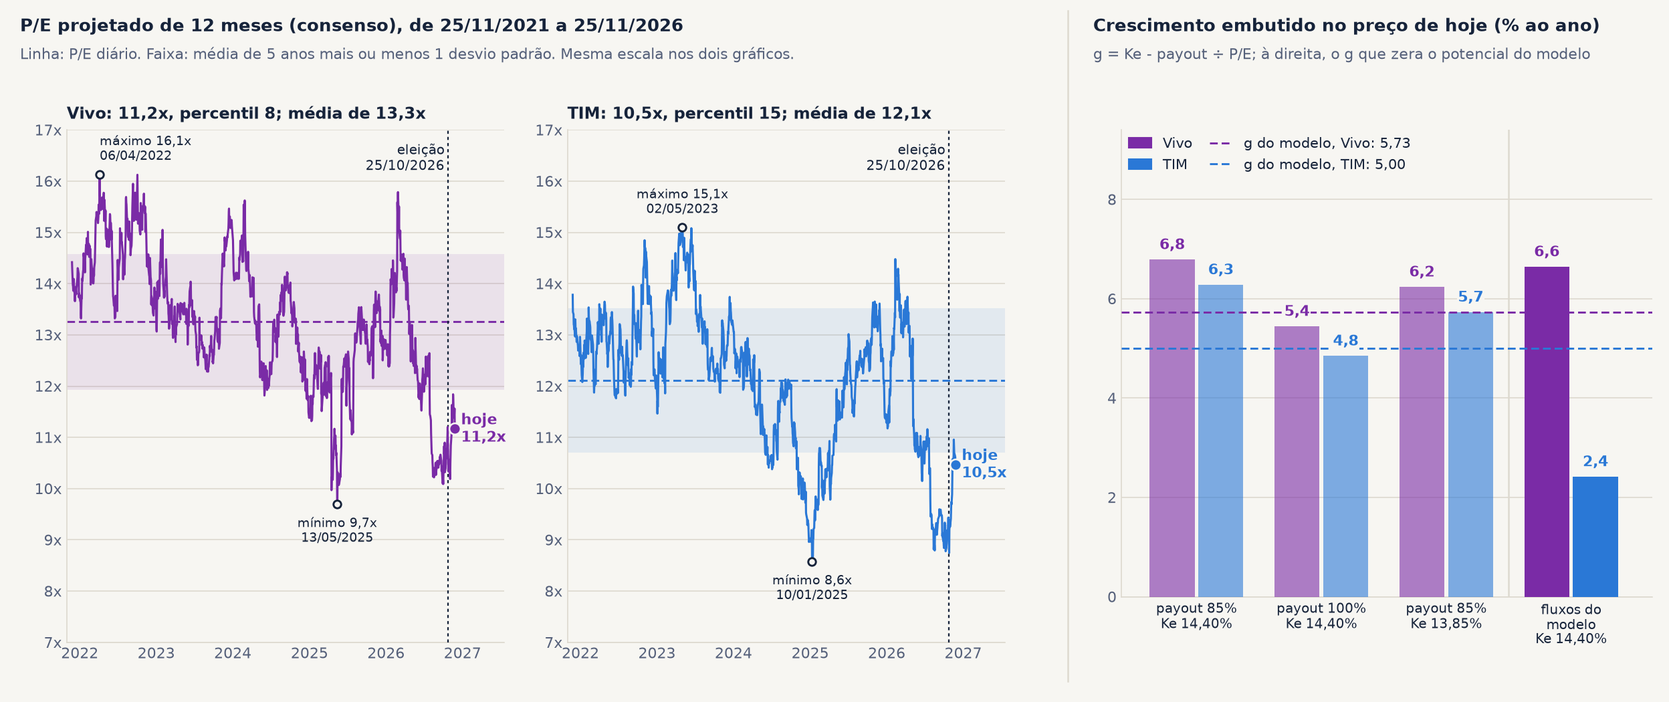
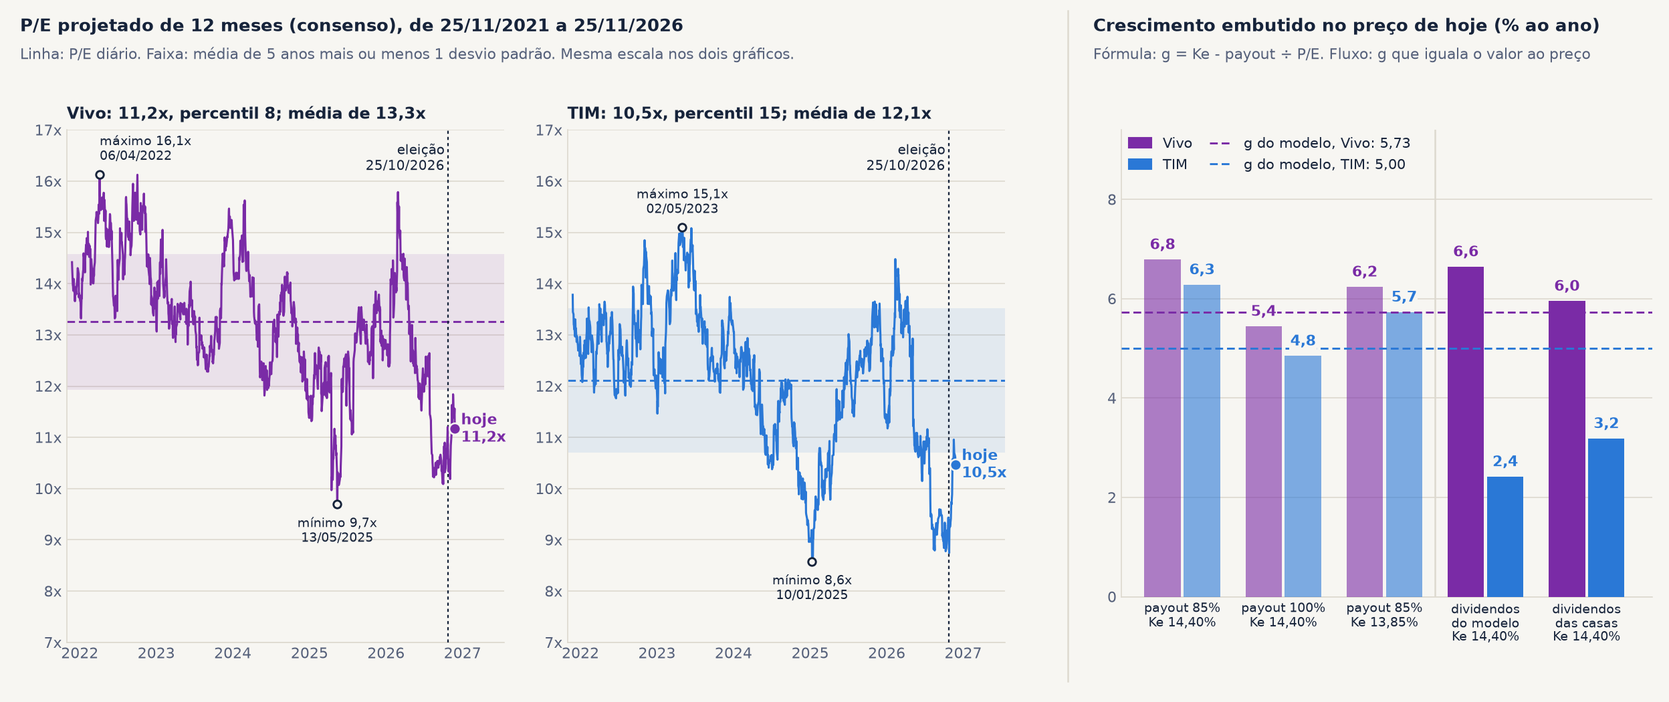
v7.10 · 25/11/2026 15:01 · correções da revisão do JPM e do slide de P/E
Distribuição do JPM por competência; Fistel do JPM sem dupla contagem no
slide 20; slide 27 com o caso dos dividendos das casas e a leitura corrigida;
acertos de nota nos slides 10, 13, 17 e 19.

Changed region(s): [[0.6875, 0.3352, 1.0, 0.9143], [0.6562, 0.061, 0.9688, 0.0914]]

diff --git a/index.html b/index.html
@@ -40,7 +40,7 @@ h1, h2, h3 { font-family:'Space Grotesk', Arial, sans-serif; }
 <div id="palco">
 <section id="capa" class="capa" data-transition="fade">
 <div>
-<p class="chip">v7.9 · 25/11/2026 14:54</p>
+<p class="chip">v7.10 · 25/11/2026 15:01</p>
 </div>
 <div>
 <h1>Telecom Brasil: Vivo e TIM</h1>
@@ -109,7 +109,7 @@ h1, h2, h3 { font-family:'Space Grotesk', Arial, sans-serif; }
 <h2 class="titulo">Capex: pico de 20,7% da receita na Vivo (2014) e 28,8% na TIM (2016), hoje 15,6% e 17,1%; em reais, quase parado desde 2015; o modelo vai a 14,0% e 14,5%</h2>
 <img class="graf" src="img/v7_capex.png" alt="Quatro gráficos de 2011 a 2030 estimado. Em cima, na mesma escala, o capex sem licenças sobre a receita líquida de Vivo e TIM, com a estimativa do modelo, a média das casas e a faixa das casas. Embaixo, na mesma escala, o capex sem licenças em bilhões de reais nominais por ano, em barras, com a estimativa do modelo e a média das casas">
 <p class="fonte">Fonte: planilhas de RI, releases e modelos de 25/11/2026. Capex sem licenças; Vivo com a GVT de 2014 em diante (pro forma). Casas: Itaú BBA, BBI, BTG, Santander, JPM e, na Vivo, UBS. UBS só até 2028E.</p>
-<aside>Capex sem licenças sobre a receita. Vivo: 14,9% em 2011 e 2012, 16,2% em 2013, pico de 20,7% em 2014 (ano em que a GVT entra na base, pro forma), 19,7% em 2015, 18,8% em 2016, 18,5% em 2017, 18,9% em 2018, 20,0% em 2019, 18,1% em 2020, 19,7% em 2021, 19,8% em 2022, 17,2% em 2023, 16,4% em 2024 e 15,6% em 2025. TIM: 17,3% em 2011, 18,0% em 2012, 19,4% em 2013, 20,1% em 2014, 27,8% em 2015, pico de 28,8% em 2016, 25,6% em 2017, 23,3% em 2018, 22,2% em 2019, 22,5% em 2020, 24,3% em 2021, 21,9% em 2022, 18,9% em 2023, 17,9% em 2024 e 17,1% em 2025. Dois ciclos: a rede 4G em 2014-2016 (na TIM com a receita caindo de R$ 20,0 bilhões em 2013 para R$ 15,6 bilhões em 2016) e o 5G com fibra em 2019-2022. Em reais nominais: Vivo de R$ 4,9 bilhões em 2011 para R$ 8,3 bilhões em 2014 e 2015, R$ 8,8 bilhões em 2019, R$ 9,5 bilhões em 2022 e R$ 9,3 bilhões em 2025; TIM de R$ 3,0 bilhões em 2011 para R$ 4,8 bilhões em 2015, R$ 3,9 bilhões em 2019, R$ 4,7 bilhões em 2022 e R$ 4,5 bilhões em 2025. Em dez anos (2015 a 2025) o capex nominal sobe 11% na Vivo e cai 5% na TIM, com a receita subindo 41% e 55%: a queda da razão desde 2022 é receita, não corte. Em reais de 2025 o capex cai de R$ 14,1 bilhões para R$ 9,3 bilhões na Vivo e de R$ 8,1 bilhões para R$ 4,5 bilhões na TIM entre 2015 e 2025. Estimativas. Vivo: o modelo põe 14,9% em 2026E e 14,0% de 2027E a 2030E (premissa baixada de 14,5% para 14,0% em 24/11/2026), com o capex parado em R$ 9,5 bilhões em 2026E e 2027E e subindo com a receita até R$ 11,2 bilhões em 2030E; casas em 15,1%, 14,6%, 14,3%, 14,1% e 14,1% (faixa de 13,1% a 15,0% em 2030E, com o JPM no teto nos cinco anos), com R$ 10,9 bilhões em 2030E; o modelo fica 0,6 p.p. abaixo da média em 2027E, 0,3 abaixo em 2028E e 0,1 abaixo em 2030E, e ainda assim com R$ 0,3 bilhão a mais de capex que a média das casas em 2030E, porque a receita do modelo é maior. TIM: o modelo põe 16,3%, 15,3% e 14,5% de 2028E a 2030E, com o capex em R$ 4,5 bilhões em 2027E e 2028E e R$ 4,9 bilhões em 2030E; casas em 16,2%, 15,6%, 15,4%, 15,2% e 15,6% (faixa de 15,0% a 16,7% em 2030E), com R$ 5,1 bilhões em 2030E; o modelo fica 1,1 p.p. abaixo da média em 2030E e abaixo da casa mais baixa de 2028E em diante. Os 14,0% da Vivo e os 14,5% da TIM no modelo são o menor nível de cada série desde 2011 (a Vivo teve 14,9% em 2011 e 2012, antes da GVT). Fontes do realizado: Vivo pelo modelo até 2018 e pelo capex sem licenças da planilha de RI de 2019 em diante; TIM pelo modelo, com o capex orgânico de 2012 e 2014 dos releases e 2021 pelo capex sem licenças da companhia (R$ 4,38 bilhões). A emissão de arrendamento está no slide seguinte.</aside>
+<aside>Capex sem licenças sobre a receita. Vivo: 14,9% em 2011 e 2012, 16,2% em 2013, pico de 20,7% em 2014 (ano em que a GVT entra na base, pro forma), 19,7% em 2015, 18,8% em 2016, 18,5% em 2017, 18,9% em 2018, 20,0% em 2019, 18,1% em 2020, 19,7% em 2021, 19,8% em 2022, 17,2% em 2023, 16,4% em 2024 e 15,6% em 2025. TIM: 17,3% em 2011, 18,0% em 2012, 19,4% em 2013, 20,1% em 2014, 27,8% em 2015, pico de 28,8% em 2016, 25,6% em 2017, 23,3% em 2018, 22,2% em 2019, 22,5% em 2020, 24,3% em 2021, 21,9% em 2022, 18,9% em 2023, 17,9% em 2024 e 17,1% em 2025. Dois ciclos: a rede 4G em 2014-2016 (na TIM com a receita caindo de R$ 20,0 bilhões em 2013 para R$ 15,6 bilhões em 2016) e o 5G com fibra em 2019-2022. Em reais nominais: Vivo de R$ 4,9 bilhões em 2011 para R$ 8,3 bilhões em 2014 e 2015, R$ 8,8 bilhões em 2019, R$ 9,5 bilhões em 2022 e R$ 9,3 bilhões em 2025; TIM de R$ 3,0 bilhões em 2011 para R$ 4,8 bilhões em 2015, R$ 3,9 bilhões em 2019, R$ 4,7 bilhões em 2022 e R$ 4,5 bilhões em 2025. Em dez anos (2015 a 2025) o capex nominal sobe 11% na Vivo e cai 5% na TIM, com a receita subindo 41% e 55%: a queda da razão desde 2022 é receita, não corte. Em reais de 2025 o capex cai de R$ 14,1 bilhões para R$ 9,3 bilhões na Vivo e de R$ 8,1 bilhões para R$ 4,5 bilhões na TIM entre 2015 e 2025. Estimativas. Vivo: o modelo põe 14,9% em 2026E e 14,0% de 2027E a 2030E (premissa baixada de 14,5% para 14,0% em 24/11/2026), com o capex parado em R$ 9,5 bilhões em 2026E e 2027E e subindo com a receita até R$ 11,2 bilhões em 2030E; casas em 15,1%, 14,6%, 14,3%, 14,1% e 14,1% (faixa de 13,1% a 15,0% em 2030E, com o JPM no teto nos cinco anos), com R$ 10,9 bilhões em 2030E; o modelo fica 0,6 p.p. abaixo da média em 2027E, 0,3 abaixo em 2028E e 0,1 abaixo em 2030E, e ainda assim com R$ 0,3 bilhão a mais de capex que a média das casas em 2030E, porque a receita do modelo é maior. TIM: o modelo põe 16,3%, 15,3% e 14,5% de 2028E a 2030E, com o capex em R$ 4,5 bilhões em 2027E e 2028E e R$ 4,9 bilhões em 2030E; casas em 16,2%, 15,6%, 15,4%, 15,2% e 15,6% (faixa de 15,0% a 16,7% em 2030E), com R$ 5,1 bilhões em 2030E; o modelo fica 1,1 p.p. abaixo da média em 2030E e abaixo da casa mais baixa de 2027E em diante. Os 14,0% da Vivo e os 14,5% da TIM no modelo são o menor nível de cada série desde 2011 (a Vivo teve 14,9% em 2011 e 2012, antes da GVT). Fontes do realizado: Vivo pelo modelo até 2018 e pelo capex sem licenças da planilha de RI de 2019 em diante; TIM pelo modelo, com o capex orgânico de 2012 e 2014 dos releases e 2021 pelo capex sem licenças da companhia (R$ 4,38 bilhões). A emissão de arrendamento está no slide seguinte.</aside>
 </section>
 <section id="capex-emis" data-transition="fade">
 <p class="olho">4 · CAPEX MAIS EMISSÃO DE ARRENDAMENTO: MODELO CONTRA AS CASAS</p>
@@ -130,7 +130,7 @@ h1, h2, h3 { font-family:'Space Grotesk', Arial, sans-serif; }
 <h2 class="titulo">D&amp;A cai de 25,1% para 19,0% da receita na Vivo e de 26,6% para 20,0% na TIM até 2030E; na TIM o modelo fica 2,0 p.p. abaixo das casas</h2>
 <img class="graf" src="img/v9_da_receita.png" alt="Dois gráficos na mesma escala, um da Vivo e um da TIM, de 2019 a 2030 estimado, com duas linhas sobre a receita líquida: a depreciação e amortização total, com a estimativa do modelo, a média e a faixa das casas, e o arrendamento pago (principal mais juros), com a estimativa do modelo">
 <p class="fonte">Fonte: planilhas de RI e modelos de 25/11/2026. D&amp;A total, com a depreciação do direito de uso e a amortização de licenças. Arrendamento pago = principal + juros. Casas: Itaú BBA, BBI, BTG, Santander, JPM e, na Vivo, UBS.</p>
-<aside>Depreciação e amortização total sobre a receita. Vivo: 24,7% em 2019, 26,0% em 2020, 27,3% em 2021, 26,4% em 2022, 25,7% em 2023, 25,4% em 2024 e 25,1% em 2025 (R$ 14,9 bilhões). Modelo: 23,6% em 2026E, 21,6% em 2027E, 20,5% em 2028E, 19,6% em 2029E e 19,0% em 2030E, com a D&amp;A parada perto de R$ 15 bilhões e a receita crescendo. Casas: média de 23,9%, 22,2%, 21,4%, 20,6% e 20,1%, com faixa de 18,9% a 21,4% em 2030E; o modelo fica 1,2 p.p. abaixo da média em 2030E, dentro da faixa. Composição da D&amp;A da Vivo em 2025: imobilizado R$ 7,3 bilhões, direito de uso R$ 3,7 bilhões, outros intangíveis R$ 2,6 bilhões e licenças R$ 1,3 bilhão; a depreciação acelerada do cobre e dos legados (R$ 0,3 bilhão por trimestre do 3T24 ao 2T26) termina em 2026. TIM: 29,5% em 2019, 32,0% em 2020, 31,5% em 2021, 31,6% em 2022, 29,8% em 2023, 27,6% em 2024 e 26,6% em 2025 (R$ 7,1 bilhões). Modelo: 25,9% em 2026E, 23,8% em 2027E, 22,2% em 2028E, 21,4% em 2029E e 20,0% em 2030E; a D&amp;A vai de R$ 7,3 bilhões em 2026E para R$ 7,0 bilhões em 2027E e R$ 6,8 bilhões em 2030E. Casas: média de 25,7%, 25,0%, 23,9%, 23,0% e 22,0%, com faixa de 20,5% a 23,8% em 2030E; o modelo fica dentro da faixa em 2027E, no piso em 2028E e 0,5 p.p. abaixo da casa mais baixa em 2030E, 2,0 p.p. abaixo da média, cerca de R$ 0,4 bilhão de lucro antes do imposto (D&amp;A de R$ 6,8 bilhões no modelo contra R$ 7,2 bilhões na média das casas; o resto da distância em p.p. vem da receita maior do modelo). O JPM é a casa mais alta nos cinco anos, com 27,6% em 2027E e 23,8% em 2030E (R$ 8,1 bilhões e R$ 7,8 bilhões); sem ele a média de 2030E seria de 21,5%. No modelo da TIM a D&amp;A é a sobra da conta do ativo: capex mais emissão de arrendamento menos a variação do ativo permanente, cujo crescimento anual é a premissa digitada. Por isso 2030E é o ponto mais baixo da série (20,0% da receita; 20,5% em 2031E), e com a emissão de 2026E de volta a R$ 2,8 bilhões a D&amp;A projetada subiu. Arrendamento pago (principal mais juros) sobre a receita. Vivo: 4,5% em 2019, 7,9% em 2020, 7,4% em 2021, 8,8% em 2022, 8,1% em 2023, 8,4% em 2024 e 8,5% em 2025 (R$ 5,1 bilhões); modelo em 8,7% em 2026E, 8,9% em 2027E e 8,6% em 2030E. TIM: 9,3% em 2019, 9,8% em 2020, 11,2% em 2021, 13,4% em 2022 (torres da Oi), 12,0% em 2023, 12,9% em 2024 e 11,9% em 2025 (R$ 3,2 bilhões); modelo em 12,1% em 2026E, 13,2% em 2027E, 14,0% em 2028E, 14,6% em 2029E e 14,3% em 2030E, porque a taxa de amortização do passivo sobe ano a ano no modelo. As duas linhas não se somam: a D&amp;A já tem a depreciação do direito de uso, que é a contrapartida contábil do principal pago, e os juros do arrendamento estão no resultado financeiro. O arrendamento pago é a medida de caixa; a D&amp;A, a de resultado.</aside>
+<aside>Depreciação e amortização total sobre a receita. Vivo: 24,7% em 2019, 26,0% em 2020, 27,3% em 2021, 26,4% em 2022, 25,7% em 2023, 25,4% em 2024 e 25,1% em 2025 (R$ 14,9 bilhões). Modelo: 23,6% em 2026E, 21,6% em 2027E, 20,5% em 2028E, 19,6% em 2029E e 19,0% em 2030E, com a D&amp;A parada perto de R$ 15 bilhões e a receita crescendo. Casas: média de 23,9%, 22,2%, 21,4%, 20,6% e 20,1%, com faixa de 18,9% a 21,4% em 2030E; o modelo fica 1,2 p.p. abaixo da média em 2030E, dentro da faixa. Composição da D&amp;A da Vivo em 2025: imobilizado R$ 7,3 bilhões, direito de uso R$ 3,7 bilhões, outros intangíveis R$ 2,6 bilhões e licenças R$ 1,3 bilhão; a depreciação acelerada do cobre e dos legados (R$ 0,3 bilhão por trimestre do 3T24 ao 2T26) termina em 2026. TIM: 29,5% em 2019, 32,0% em 2020, 31,5% em 2021, 31,6% em 2022, 29,8% em 2023, 27,6% em 2024 e 26,6% em 2025 (R$ 7,1 bilhões). Modelo: 25,9% em 2026E, 23,8% em 2027E, 22,2% em 2028E, 21,4% em 2029E e 20,0% em 2030E; a D&amp;A vai de R$ 7,3 bilhões em 2026E para R$ 7,0 bilhões em 2027E e R$ 6,8 bilhões em 2030E. Casas: média de 25,7%, 25,0%, 23,9%, 23,0% e 22,0%, com faixa de 20,5% a 23,8% em 2030E; o modelo fica dentro da faixa em 2027E, no piso em 2028E e 0,5 p.p. abaixo da casa mais baixa em 2030E, 2,0 p.p. abaixo da média, cerca de R$ 0,4 bilhão de lucro antes do imposto (D&amp;A de R$ 6,8 bilhões no modelo contra R$ 7,2 bilhões na média das casas; o resto da distância em p.p. vem da receita maior do modelo). O JPM é a casa mais alta nos cinco anos, com 27,6% em 2027E e 23,8% em 2030E (R$ 8,1 bilhões e R$ 7,8 bilhões); sem ele a média de 2030E seria de 21,5%. No modelo da TIM a D&amp;A é a sobra da conta do ativo: capex mais emissão de arrendamento menos a variação do ativo permanente, cujo crescimento anual é a premissa digitada. Por isso 2030E é o ponto mais baixo da série (20,0% da receita; 20,5% em 2031E), e com a emissão de 2026E de volta a R$ 2,8 bilhões a D&amp;A projetada subiu. Arrendamento pago (principal mais juros) sobre a receita. Vivo: 4,5% em 2019, 7,9% em 2020, 7,4% em 2021, 8,8% em 2022, 8,1% em 2023, 8,4% em 2024 e 8,5% em 2025 (R$ 5,1 bilhões); modelo em 8,7% em 2026E, 8,9% em 2027E e 8,6% em 2030E. TIM: 9,3% em 2019, 9,8% em 2020, 11,2% em 2021, 13,4% em 2022 (torres da Oi), 12,0% em 2023, 12,9% em 2024 e 11,9% em 2025 (R$ 3,2 bilhões); modelo em 12,1% em 2026E, 13,2% em 2027E, 14,0% em 2028E, 14,6% em 2029E e 14,3% em 2030E, porque a taxa de amortização do passivo sobe ano a ano no modelo. As duas linhas não se somam: a D&amp;A já tem a depreciação do direito de uso, que é a contrapartida contábil do principal pago, e os juros do arrendamento estão no resultado financeiro. O arrendamento pago é a medida de caixa; a D&amp;A, a de resultado. A D&amp;A do JPM na TIM inclui a equivalência patrimonial, perto de R$ 0,1 bilhão por ano.</aside>
 </section>
 <section id="da-capex" data-transition="fade">
 <p class="olho">4 · INVESTIMENTO TOTAL CONTRA DEPRECIAÇÃO TOTAL</p>
@@ -158,7 +158,7 @@ h1, h2, h3 { font-family:'Space Grotesk', Arial, sans-serif; }
 <h2 class="titulo">Payout de 2019 a 2025: Vivo pagou 107% com potencial de 134% e TIM pagou 71%; em 2030E o modelo cai para 85% a 90% do lucro, abaixo das casas</h2>
 <img class="graf" src="img/v2_6_payout.png" alt="Payout pago em caixa de Vivo e TIM de 2015 a 2025, payout do modelo de 2026 a 2030 estimados, payout potencial pela geração de caixa sobre o lucro desde 2019 e faixa das casas">
 <p class="fonte">Fonte: CVM (DFP: dividendos, JCP, recompra e redução de capital pagos sobre o lucro) e modelos de 25/11/2026. Potencial = geração de caixa ÷ lucro: na Vivo, linha Geração Caixa / LL do modelo; na TIM, a conta do slide 21, de 2025 em diante. Casas: Itaú BBA, BBI, BTG, Santander, JPM e, na Vivo, UBS.</p>
-<aside>Vivo: o potencial oscila com capital de giro e Fistel (209% em 2020, 19% em 2022, 227% em 2023) e fica em 103% em 2025. O modelo distribui 117% do lucro recorrente em 2026E, 107% em 2027E, 100% em 2028E, 94% em 2029E e 90% em 2030E. Na base das casas, que põem a venda de ativos no lucro e na distribuição: 106% em 2027E e 100% em 2028E, dentro da faixa das casas (98% a 109% em 2027E); em 2030E, já sem venda, 90% contra 95% a 105%. TIM: pagou 142% do lucro em 2025, com geração de caixa de 161%, a mesma conta do slide 21. O modelo distribui 135% em 2026E, acima da geração de 114%, e de 2027E em diante distribui a geração de caixa menos o que retém para manter a dívida líquida sobre o EBITDA: 102%, 96%, 90% e 85% de 2027E a 2030E, contra geração de 106%, 99%, 93% e 88%. As casas têm 107% a 129% em 2027E e 90% a 102% em 2030E. A linha de potencial da TIM começa em 2025 porque, na planilha da TIM, a linha Geração Caixa / LL é a própria distribuição sobre o lucro, e a geração de caixa de 2019 a 2024 inclui a compra dos ativos da Oi em 2022. O payout cai porque a geração de caixa passa a crescer menos que o lucro: a D&amp;A converge para o capex mais o principal de arrendamento (slides 13 a 15). O efeito no yield e na distribuição em reais está no slide 26.</aside>
+<aside>Vivo: o potencial oscila com capital de giro e Fistel (209% em 2020, 19% em 2022, 227% em 2023) e fica em 103% em 2025. O modelo distribui 117% do lucro recorrente em 2026E, 107% em 2027E, 100% em 2028E, 94% em 2029E e 90% em 2030E. Na base das casas, que põem a venda de ativos no lucro e na distribuição: 106% em 2027E e 100% em 2028E, dentro da faixa das casas (98% a 109% em 2027E); em 2030E, já sem venda, 90% contra 95% a 105%. TIM: pagou 142% do lucro em 2025, com geração de caixa de 161%, a mesma conta do slide 21. O modelo distribui 135% em 2026E, acima da geração de 114%, e de 2027E em diante distribui a geração de caixa menos o que retém para manter a dívida líquida sobre o EBITDA: 102%, 96%, 90% e 85% de 2027E a 2030E, contra geração de 106%, 99%, 93% e 88%. As casas têm 107% a 129% em 2027E e 90% a 110% em 2030E. A linha de potencial da TIM começa em 2025 porque, na planilha da TIM, a linha Geração Caixa / LL é a própria distribuição sobre o lucro, e a geração de caixa de 2019 a 2024 inclui a compra dos ativos da Oi em 2022. O payout cai porque a geração de caixa passa a crescer menos que o lucro: a D&amp;A converge para o capex mais o principal de arrendamento (slides 13 a 15). O efeito no yield e na distribuição em reais está no slide 26.</aside>
 </section>
 <section id="fistel-oque" data-transition="fade">
 <p class="olho">7 · FISTEL: O QUE É, DESDE QUANDO NÃO É PAGO E ONDE APARECE</p>
@@ -172,14 +172,14 @@ h1, h2, h3 { font-family:'Space Grotesk', Arial, sans-serif; }
 <h2 class="titulo">Casas mantêm o payout perto de 100% ou acima até 2030E; o Fistel não pago libera 12% a 17% do lucro ao ano e o passivo vai a R$ 15,3 bi e R$ 10,5 bi</h2>
 <img class="graf" src="img/v10_fistel.png" alt="Quatro gráficos, Vivo e TIM na mesma escala, de 2019 a 2030 estimado. Em cima, o payout sobre o lucro: pago em caixa até 2025, modelo e casas (média e faixa) de 2026 em diante, a linha de 100% e uma faixa ocre de 100% até 100% mais o Fistel não pago do ano depois do imposto. Embaixo, o passivo de Fistel não pago no fim de cada ano, em bilhões de reais, realizado e projetado com a suspensão mantida">
 <p class="fonte">Fonte: DFP e ITR (CVM) e modelos de 25/11/2026. Fistel não pago do ano = taxa do exercício + juros sobre o passivo, depois de imposto de 34%, sobre o lucro recorrente. Passivo projetado com a suspensão mantida. Casas: Itaú BBA, BBI, BTG, Santander, JPM e, na Vivo, UBS.</p>
-<aside>A taxa de fiscalização (TFF do Fistel) está com a exigibilidade suspensa por liminar desde o exercício de 2020. A taxa do ano entra como despesa dentro do EBITDA e os juros sobre o passivo entram no resultado financeiro; nenhum dos dois sai do caixa. O lucro já vem menor por causa deles, mas o caixa não: a diferença é payout que cabe acima de 100% do lucro. Vivo, Fistel não pago do ano: R$ 1,43 bilhão em 2025, R$ 1,57 bilhão em 2026E, R$ 1,69 bilhão em 2027E e R$ 2,13 bilhões em 2030E; depois do imposto, 14,3% do lucro recorrente em 2025, 14,5% em 2026E, 13,5% em 2027E e 12,2% em 2030E (foi 21,8% em 2022). Passivo: R$ 0,7 bilhão em 2020, R$ 6,1 bilhões em 2025, R$ 7,7 bilhões em 2026E e, com a suspensão mantida, R$ 9,4 bilhões em 2027E e R$ 15,3 bilhões em 2030E, 1,3 vez o lucro daquele ano. TIM: R$ 0,94 bilhão em 2025, R$ 1,01 bilhão em 2026E e R$ 1,44 bilhão em 2030E; 14,8% do lucro em 2025, 16,5% em 2026E, 15,3% em 2027E e 13,8% em 2030E (31,0% em 2022). Passivo: R$ 4,3 bilhões em 2025, R$ 5,3 bilhões em 2026E e R$ 10,5 bilhões em 2030E, 1,5 vez o lucro. Payout pago em caixa (CVM). Vivo: 124% em 2019, 111% em 2020, 87% em 2021, 155% em 2022, 86% em 2023 e 95% em 2024 e 2025. TIM: 21% em 2019, 63% em 2020, 36% em 2021, 71% em 2022, 77% em 2023, 88% em 2024 e 142% em 2025. Payout das casas, distribuição sobre o lucro delas. Vivo: média de 100% em 2026E, 102% em 2027E e 2028E, 101% em 2029E e 100% em 2030E; Itaú BBA 114%, 109%, 106%, 100% e 100%; UBS 108%, 98%, 111%, 107% e 105%; Santander 102%, 105% e 100% de 2028E em diante; BTG 104%, 98%, 96%, 99% e 99%; JPM 115%, 101%, 91%, 95% e 99%; BBI 56% em 2026E e 104% a 106% de 2027E a 2029E. TIM: média de 106%, 123%, 115%, 107% e 99%; Itaú BBA 125% de 2026E a 2028E e 100% depois; Santander 129%, 125%, 110% e 100%; BBI 66% em 2026E e 129% a 132% de 2027E a 2029E; BTG 125%, 107%, 95%, 95% e 90%; JPM 84%, 127%, 115%, 109% e 102%. A distribuição do JPM é o dividendo pago no ano, em caixa: na TIM, R$ 3,6 bilhões em 2026E e R$ 5,4 bilhões em 2027E. Modelo: Vivo 117%, 107%, 100%, 94% e 90%; TIM 135%, 102%, 96%, 90% e 85%. Leitura: na Vivo, o que as casas pagam acima de 100% (até 2 p.p. na média, até 14 no Itaú BBA) cabe dentro do Fistel não pago (12 a 14 p.p.); o JPM de 2026E, com 15 p.p., fica no limite. Na TIM a média chega a 123% em 2027E, acima dos 115% que o lucro mais o Fistel sustentam; o resto vem da depreciação acima do investimento (slide 14). De 2027E a 2030E o menor payout entre as casas é de 90% (BTG na TIM em 2030E); abaixo disso, só em 2026E, ficam o BBI, com 56% na Vivo e 66% na TIM, e o JPM, com 84% na TIM: o mercado projeta para sempre uma distribuição que depende de a taxa continuar não sendo paga, enquanto o passivo passa de uma vez o lucro anual. No preço-alvo a maioria desconta o estoque (Itaú BBA, Santander e BTG tiram de R$ 1,9 a R$ 2,9 por ação; o JPM deduz 50% do passivo suspenso, líquido de 34% de imposto, R$ 2,5 bilhões na Vivo e R$ 1,7 bilhão na TIM; BBI quase nada), mas na distribuição nenhuma das outras cinco casas volta a pagar a taxa. O JPM mantém o passivo parado em R$ 7,5 bilhões na Vivo e R$ 5,1 bilhões na TIM até 2030E e corta a taxa anual pela metade na Vivo de 2028E em diante (de R$ 770 milhões em 2027E para R$ 385 milhões) e em um terço na TIM de 2029E em diante (de R$ 826 milhões para R$ 551 milhões). Ressalvas: o payout acima de 100% também pode vir de capital de giro e de depreciação acima do investimento, então o Fistel é suficiente para explicar o excesso da Vivo, não a única explicação; a alíquota de 34% supõe que a despesa é dedutível hoje; pela Lei 6.404, distribuir acima do lucro e das reservas exige redução de capital, que a Vivo já fez (R$ 2 bilhões em 2025 e R$ 4 bilhões em 2026); a faixa das casas em 2026E é puxada para baixo pelo BBI.</aside>
+<aside>A taxa de fiscalização (TFF do Fistel) está com a exigibilidade suspensa por liminar desde o exercício de 2020. A taxa do ano entra como despesa dentro do EBITDA e os juros sobre o passivo entram no resultado financeiro; nenhum dos dois sai do caixa. O lucro já vem menor por causa deles, mas o caixa não: a diferença é payout que cabe acima de 100% do lucro. Vivo, Fistel não pago do ano: R$ 1,43 bilhão em 2025, R$ 1,57 bilhão em 2026E, R$ 1,69 bilhão em 2027E e R$ 2,13 bilhões em 2030E; depois do imposto, 14,3% do lucro recorrente em 2025, 14,5% em 2026E, 13,5% em 2027E e 12,2% em 2030E (foi 21,8% em 2022). Passivo: R$ 0,7 bilhão em 2020, R$ 6,1 bilhões em 2025, R$ 7,7 bilhões em 2026E e, com a suspensão mantida, R$ 9,4 bilhões em 2027E e R$ 15,3 bilhões em 2030E, 1,3 vez o lucro daquele ano. TIM: R$ 0,94 bilhão em 2025, R$ 1,01 bilhão em 2026E e R$ 1,44 bilhão em 2030E; 14,8% do lucro em 2025, 16,5% em 2026E, 15,3% em 2027E e 13,8% em 2030E (31,0% em 2022). Passivo: R$ 4,3 bilhões em 2025, R$ 5,3 bilhões em 2026E e R$ 10,5 bilhões em 2030E, 1,5 vez o lucro. Payout pago em caixa (CVM). Vivo: 124% em 2019, 111% em 2020, 87% em 2021, 155% em 2022, 86% em 2023 e 95% em 2024 e 2025. TIM: 21% em 2019, 63% em 2020, 36% em 2021, 71% em 2022, 77% em 2023, 88% em 2024 e 142% em 2025. Payout das casas, distribuição sobre o lucro delas. Vivo: média de 100% em 2026E, 102% em 2027E, 101% em 2028E, 103% em 2029E e 101% em 2030E; Itaú BBA 114%, 109%, 106%, 100% e 100%; UBS 108%, 98%, 111%, 107% e 105%; Santander 102%, 105% e 100% de 2028E em diante; BTG 104%, 98%, 96%, 99% e 99%; JPM 115%, 101%, 88%, 105% e 105%; BBI 56% em 2026E e 104% a 106% de 2027E a 2029E. TIM: média de 114%, 122%, 117%, 107% e 100%; Itaú BBA 125% de 2026E a 2028E e 100% depois; Santander 129%, 125%, 110% e 100%; BBI 66% em 2026E e 129% a 132% de 2027E a 2029E; BTG 125%, 107%, 95%, 95% e 90%; JPM 126%, 125%, 125%, 110% e 110%. A distribuição do JPM está por competência: na Vivo, o dividendo declarado; na TIM, o dividendo pago no ano seguinte (R$ 5,4 bilhões sobre o lucro de 2026E). Modelo: Vivo 117%, 107%, 100%, 94% e 90%; TIM 135%, 102%, 96%, 90% e 85%. Leitura: na Vivo, o que as casas pagam acima de 100% (até 3 p.p. na média, até 14 no Itaú BBA) cabe dentro do Fistel não pago (12 a 14 p.p.); o JPM de 2026E, com 15 p.p., fica no limite. Na TIM a média chega a 122% em 2027E, acima dos 115% que o lucro mais o Fistel sustentam; o resto vem da depreciação acima do investimento (slide 14). De 2027E a 2030E o menor payout entre as casas é de 88% na Vivo (JPM em 2028E) e de 90% na TIM (BTG em 2030E); em 2026E o BBI fica em 56% na Vivo e 66% na TIM: o mercado projeta para sempre uma distribuição que depende de a taxa continuar não sendo paga, enquanto o passivo passa de uma vez o lucro anual. No preço-alvo a maioria desconta o estoque (Itaú BBA, Santander e BTG tiram de R$ 1,9 a R$ 2,9 por ação; o JPM deduz 50% do passivo suspenso, líquido de 34% de imposto, R$ 2,5 bilhões na Vivo e R$ 1,7 bilhão na TIM; BBI quase nada), mas na distribuição as outras casas não voltam a pagar a taxa. O JPM é a exceção: no modelo dele o passivo fica parado em R$ 7,5 bilhões na Vivo e R$ 5,1 bilhões na TIM até 2030E, sinal de que a taxa e os juros saem do caixa, e ele corta a taxa anual pela metade na Vivo de 2028E em diante (de R$ 770 milhões em 2027E para R$ 385 milhões) e em um terço na TIM de 2029E em diante (de R$ 826 milhões para R$ 551 milhões). Ressalvas: o payout acima de 100% também pode vir de capital de giro e de depreciação acima do investimento, então o Fistel é suficiente para explicar o excesso da Vivo, não a única explicação; a alíquota de 34% supõe que a despesa é dedutível hoje; pela Lei 6.404, distribuir acima do lucro e das reservas exige redução de capital, que a Vivo já fez (R$ 2 bilhões em 2025 e R$ 4 bilhões em 2026); a faixa das casas em 2026E é puxada para baixo pelo BBI.</aside>
 </section>
 <section id="fistel-cenarios" data-transition="fade">
 <p class="olho">7 · FISTEL: O LUCRO SEM A DESPESA E O PAYOUT SE A TAXA VOLTAR A SER PAGA</p>
 <h2 class="titulo">Sem a despesa de Fistel o lucro sobe 12% a 17%; se a taxa voltar a ser paga, o payout perde 12 a 15 p.p. e fica em 100% ou menos de 2028E em diante</h2>
 <img class="graf" src="img/v10b_fistel_cenarios.png" alt="Quatro gráficos, Vivo e TIM na mesma escala, de 2027 a 2030 estimado. Em cima, barras do lucro recorrente do modelo e do lucro sem 50% e sem 100% da despesa de Fistel, em bilhões de reais, com o aumento percentual. Embaixo, o payout do modelo em três situações (sem pagar o Fistel, pagando 50% e pagando 100%) e a média das casas, com a queda em pontos percentuais se a taxa voltar a ser paga inteira">
 <p class="fonte">Fonte: modelos de 25/11/2026 e ITR do 3T26 (CVM). Despesa de Fistel = taxa do ano + juros sobre o passivo, com imposto de 34%; JCP adicional limitado a TJLP × patrimônio líquido. A distribuição dos modelos não conta com o Fistel. Casas: Itaú BBA, BBI, BTG, Santander, JPM e, na Vivo, UBS.</p>
-<aside>Duas perguntas. Primeira: quanto o lucro sobe se a despesa de Fistel sair do resultado, inteira ou pela metade. Segunda: quanto o payout cai se a taxa voltar a ser paga. A despesa é a soma da taxa do ano (dentro do EBITDA) com os juros sobre o passivo (no resultado financeiro). Vivo: R$ 1,69 bilhão em 2027E, R$ 1,83 bilhão em 2028E, R$ 1,97 bilhão em 2029E e R$ 2,13 bilhões em 2030E. TIM: R$ 1,11 bilhão, R$ 1,27 bilhão, R$ 1,33 bilhão e R$ 1,44 bilhão. Lucro sem a despesa. Ganho = despesa depois do imposto de 34%, mais o imposto economizado com o JCP adicional. O JCP dedutível é o menor entre 50% do lucro antes do imposto de renda e TJLP vezes o patrimônio líquido; quando o lucro sobe, o primeiro limite sobe junto. Vivo, sem 100% da despesa: lucro de R$ 8,3 bilhões para R$ 9,7 bilhões em 2027E (mais 16,6%), de R$ 9,5 bilhões para R$ 10,9 bilhões em 2028E (mais 15,5%), de R$ 10,6 bilhões para R$ 11,9 bilhões em 2029E (mais 12,9%) e de R$ 11,5 bilhões para R$ 12,9 bilhões em 2030E (mais 12,2%). Dentro desse ganho, o JCP adicional vale R$ 262 milhões em 2027E (3,2 p.p.), R$ 256 milhões em 2028E (2,7 p.p.) e R$ 63 milhões em 2029E (0,6 p.p.); em 2030E é zero, porque o JCP já bate no limite de TJLP vezes patrimônio. Vivo, sem 50%: mais 8,3%, 7,9%, 6,8% e 6,1%. TIM, sem 100%: de R$ 4,8 bilhões para R$ 5,5 bilhões em 2027E (mais 15,3%), R$ 5,6 bilhões para R$ 6,4 bilhões (mais 15,0%), R$ 6,2 bilhões para R$ 7,1 bilhões (mais 14,2%) e R$ 6,9 bilhões para R$ 7,9 bilhões (mais 13,8%); sem 50%: mais 7,7%, 7,5%, 7,1% e 6,9%. Na TIM não há ganho de JCP: o modelo já declara o teto de TJLP vezes patrimônio em todos os anos. Payout se voltar a pagar. A distribuição dos dois modelos é a geração de caixa sem contar com o Fistel, ou seja, a base já supõe a taxa paga. Sem pagar, como hoje, sobra o Fistel do ano depois do imposto. Vivo: payout de 121% sem pagar, 114% pagando metade e 107% pagando tudo em 2027E; 113%, 106% e 100% em 2028E; 107%, 100% e 94% em 2029E; 103%, 97% e 90% em 2030E. A queda por voltar a pagar tudo é de 13,5 p.p. em 2027E, 12,8 em 2028E, 12,3 em 2029E e 12,2 em 2030E; metade disso se pagar 50%. TIM: 117%, 110% e 102% em 2027E; 111%, 104% e 96% em 2028E; 104%, 97% e 90% em 2029E; 99%, 92% e 85% em 2030E; queda de 15,3, 15,0, 14,2 e 13,8 p.p. Casas: a média da Vivo é de 102% em 2027E e 2028E, 101% em 2029E e 100% em 2030E; tirando o mesmo Fistel do caixa delas, iria para 91%, 90%, 89% e 87%. A da TIM é de 123%, 115%, 107% e 99% e iria para 107%, 99%, 91% e 83%. Leitura: o número é o mesmo visto dos dois lados. Quem acha que a taxa nunca será paga deveria olhar um lucro 12% a 17% maior, e aí o payout das casas deixa de parecer alto; quem acha que volta a ser paga tem de tirar 12 a 15 p.p. do payout. As casas fazem as duas coisas ao mesmo tempo: mantêm a despesa no lucro e não pagam a taxa no fluxo. O JPM trabalha com metade: deduz do valor 50% do passivo suspenso, líquido de 34% de imposto (R$ 2,5 bilhões na Vivo e R$ 1,7 bilhão na TIM), e corta a taxa anual pela metade na Vivo de 2028E em diante (de R$ 770 milhões em 2027E para R$ 385 milhões) e em um terço na TIM de 2029E em diante (de R$ 826 milhões para R$ 551 milhões). Por que 34% e não a alíquota dos modelos: a despesa com exigibilidade suspensa só é dedutível quando paga; a TIM carrega R$ 1.731,5 milhões de imposto diferido ativo sobre tributos com exigibilidade suspensa no ITR do 3T26, 34% do passivo de R$ 5.093,7 milhões. Com a alíquota antes do JCP de cada modelo (28% na Vivo e 20% na TIM, que tem o incentivo da Sudam e da Sudene), o ganho de lucro seria de 17,3%, 16,1%, 13,9% e 13,3% na Vivo e de 18,5%, 18,2%, 17,2% e 16,7% na TIM. Sem descontar imposto nenhum, como nas linhas de Fistel sobre lucro dos modelos, a queda do payout seria de 20,4, 19,3, 18,7 e 18,5 p.p. na Vivo e de 23,2, 22,7, 21,5 e 20,9 p.p. na TIM. Fora da conta: o estoque. Se além de voltar a pagar a taxa do ano a companhia tiver de quitar o passivo, são R$ 7,7 bilhões na Vivo e R$ 5,3 bilhões na TIM no fim de 2026E, R$ 5,1 bilhões e R$ 3,5 bilhões depois do imposto, 61% e 73% do lucro de 2027E; se ganhar a causa, a reversão do passivo é um ganho não recorrente do mesmo tamanho. Ressalvas: a Vivo não abre no ITR o imposto diferido do Fistel; o efeito do lucro maior sobre o patrimônio, e portanto sobre o limite do JCP, não foi considerado; o cenário de 50% é metade da despesa do ano, não um acordo específico.</aside>
+<aside>Duas perguntas. Primeira: quanto o lucro sobe se a despesa de Fistel sair do resultado, inteira ou pela metade. Segunda: quanto o payout cai se a taxa voltar a ser paga. A despesa é a soma da taxa do ano (dentro do EBITDA) com os juros sobre o passivo (no resultado financeiro). Vivo: R$ 1,69 bilhão em 2027E, R$ 1,83 bilhão em 2028E, R$ 1,97 bilhão em 2029E e R$ 2,13 bilhões em 2030E. TIM: R$ 1,11 bilhão, R$ 1,27 bilhão, R$ 1,33 bilhão e R$ 1,44 bilhão. Lucro sem a despesa. Ganho = despesa depois do imposto de 34%, mais o imposto economizado com o JCP adicional. O JCP dedutível é o menor entre 50% do lucro antes do imposto de renda e TJLP vezes o patrimônio líquido; quando o lucro sobe, o primeiro limite sobe junto. Vivo, sem 100% da despesa: lucro de R$ 8,3 bilhões para R$ 9,7 bilhões em 2027E (mais 16,6%), de R$ 9,5 bilhões para R$ 10,9 bilhões em 2028E (mais 15,5%), de R$ 10,6 bilhões para R$ 11,9 bilhões em 2029E (mais 12,9%) e de R$ 11,5 bilhões para R$ 12,9 bilhões em 2030E (mais 12,2%). Dentro desse ganho, o JCP adicional vale R$ 262 milhões em 2027E (3,2 p.p.), R$ 256 milhões em 2028E (2,7 p.p.) e R$ 63 milhões em 2029E (0,6 p.p.); em 2030E é zero, porque o JCP já bate no limite de TJLP vezes patrimônio. Vivo, sem 50%: mais 8,3%, 7,9%, 6,8% e 6,1%. TIM, sem 100%: de R$ 4,8 bilhões para R$ 5,5 bilhões em 2027E (mais 15,3%), R$ 5,6 bilhões para R$ 6,4 bilhões (mais 15,0%), R$ 6,2 bilhões para R$ 7,1 bilhões (mais 14,2%) e R$ 6,9 bilhões para R$ 7,9 bilhões (mais 13,8%); sem 50%: mais 7,7%, 7,5%, 7,1% e 6,9%. Na TIM não há ganho de JCP: o modelo já declara o teto de TJLP vezes patrimônio em todos os anos. Payout se voltar a pagar. A distribuição dos dois modelos é a geração de caixa sem contar com o Fistel, ou seja, a base já supõe a taxa paga. Sem pagar, como hoje, sobra o Fistel do ano depois do imposto. Vivo: payout de 121% sem pagar, 114% pagando metade e 107% pagando tudo em 2027E; 113%, 106% e 100% em 2028E; 107%, 100% e 94% em 2029E; 103%, 97% e 90% em 2030E. A queda por voltar a pagar tudo é de 13,5 p.p. em 2027E, 12,8 em 2028E, 12,3 em 2029E e 12,2 em 2030E; metade disso se pagar 50%. TIM: 117%, 110% e 102% em 2027E; 111%, 104% e 96% em 2028E; 104%, 97% e 90% em 2029E; 99%, 92% e 85% em 2030E; queda de 15,3, 15,0, 14,2 e 13,8 p.p. Casas: a média da Vivo é de 102% em 2027E, 101% em 2028E, 103% em 2029E e 101% em 2030E; tirando o mesmo Fistel do caixa delas, menos do JPM, que já paga a taxa no fluxo, iria para 93%, 91%, 92% e 90%. A da TIM é de 122%, 117%, 107% e 100% e iria para 110%, 104%, 95% e 88%. Leitura: o número é o mesmo visto dos dois lados. Quem acha que a taxa nunca será paga deveria olhar um lucro 12% a 17% maior, e aí o payout das casas deixa de parecer alto; quem acha que volta a ser paga tem de tirar 12 a 15 p.p. do payout. As casas fazem as duas coisas ao mesmo tempo: mantêm a despesa no lucro e não pagam a taxa no fluxo. O JPM é a exceção: paga a taxa no fluxo e trabalha com metade: deduz do valor 50% do passivo suspenso, líquido de 34% de imposto (R$ 2,5 bilhões na Vivo e R$ 1,7 bilhão na TIM), e corta a taxa anual pela metade na Vivo de 2028E em diante (de R$ 770 milhões em 2027E para R$ 385 milhões) e em um terço na TIM de 2029E em diante (de R$ 826 milhões para R$ 551 milhões). Por que 34% e não a alíquota dos modelos: a despesa com exigibilidade suspensa só é dedutível quando paga; a TIM carrega R$ 1.731,5 milhões de imposto diferido ativo sobre tributos com exigibilidade suspensa no ITR do 3T26, 34% do passivo de R$ 5.093,7 milhões. Com a alíquota antes do JCP de cada modelo (28% na Vivo e 20% na TIM, que tem o incentivo da Sudam e da Sudene), o ganho de lucro seria de 17,3%, 16,1%, 13,9% e 13,3% na Vivo e de 18,5%, 18,2%, 17,2% e 16,7% na TIM. Sem descontar imposto nenhum, como nas linhas de Fistel sobre lucro dos modelos, a queda do payout seria de 20,4, 19,3, 18,7 e 18,5 p.p. na Vivo e de 23,2, 22,7, 21,5 e 20,9 p.p. na TIM. Fora da conta: o estoque. Se além de voltar a pagar a taxa do ano a companhia tiver de quitar o passivo, são R$ 7,7 bilhões na Vivo e R$ 5,3 bilhões na TIM no fim de 2026E, R$ 5,1 bilhões e R$ 3,5 bilhões depois do imposto, 61% e 73% do lucro de 2027E; se ganhar a causa, a reversão do passivo é um ganho não recorrente do mesmo tamanho. Ressalvas: a Vivo não abre no ITR o imposto diferido do Fistel; o efeito do lucro maior sobre o patrimônio, e portanto sobre o limite do JCP, não foi considerado; o cenário de 50% é metade da despesa do ano, não um acordo específico.</aside>
 </section>
 <section id="ponte" data-transition="fade">
 <p class="olho">8 · DO EBITDA AO LUCRO E DO LUCRO À GERAÇÃO DE CAIXA</p>
@@ -225,10 +225,10 @@ h1, h2, h3 { font-family:'Space Grotesk', Arial, sans-serif; }
 </section>
 <section id="pe-hist" data-transition="fade">
 <p class="olho">12 · P/E EM 5 ANOS E O CRESCIMENTO EMBUTIDO NO PREÇO</p>
-<h2 class="titulo">P/E de 12 meses perto do piso de 5 anos (Vivo 11,2x, TIM 10,5x); pelo consenso o preço embute g de 5% a 7%, e só 2,4% na TIM pelos fluxos do modelo</h2>
-<img class="graf" src="img/v16_pe_hist.png" alt="À esquerda, dois gráficos na mesma escala com o P/E projetado de 12 meses de Vivo e de TIM, diário, de novembro de 2021 a novembro de 2026, com a média de 5 anos, a faixa de um desvio padrão, o máximo, o mínimo e a data da eleição. À direita, barras do crescimento na perpetuidade que o preço de hoje embute, para Vivo e TIM, em quatro casos: payout de 85% com Ke de 14,40%, payout de 100% com Ke de 14,40%, payout de 85% com Ke de 13,85% e os fluxos do próprio modelo; duas linhas marcam o g dos modelos">
-<p class="fonte">Fonte: Bloomberg (P/E projetado de 12 meses pelo consenso, diário, de 25/11/2021 a 25/11/2026) e modelos de 25/11/2026. Crescimento embutido: g igual a Ke menos payout ÷ P/E; no último grupo, o g que iguala o valor do desconto de dividendos do modelo ao valor de mercado.</p>
-<aside>A série. P/E projetado de 12 meses pelo consenso da Bloomberg. Vivo: 11,2 vezes em 25/11/2026, no percentil 8 da série de 5 anos; média de 13,3 vezes, faixa de um desvio padrão de 11,9 a 14,6 vezes, máximo de 16,1 vezes em 06/04/2022 e mínimo de 9,7 vezes em 13/05/2025. TIM: 10,5 vezes, no percentil 15; média de 12,1 vezes, faixa de 10,7 a 13,5 vezes, máximo de 15,1 vezes em 02/05/2023 e mínimo de 8,6 vezes em 10/01/2025. A queda de múltiplo veio antes da eleição: em 2026 as duas chegaram a 15,8 e 14,5 vezes e estavam em 10,9 e 9,2 vezes na véspera da eleição de 25/10/2026; no primeiro pregão depois foram a 10,3 e 8,8 vezes e desde então subiram. A TIM negocia a 0,94 do P/E da Vivo, contra 0,92 na média, e ficou acima da Vivo em 16% dos dias. Base diferente da do slide 24: lá o P/E usa o lucro recorrente do modelo (13,8 vezes na Vivo e 11,0 na TIM); aqui usa o lucro do consenso, que na Vivo é maior que o lucro recorrente do modelo. Crescimento embutido. Pela fórmula de um estágio, P/E igual a payout dividido por Ke menos g, o P/E de hoje embute: com payout de 85% e Ke de 14,40%, 6,8% ao ano na Vivo e 6,3% na TIM; com payout de 100% e Ke de 14,40%, 5,4% e 4,8%; com payout de 85% e Ke de 13,85%, 6,2% e 5,7%. O g dos modelos é de 5,73% na Vivo e 5,00% na TIM. Com o P/E médio de 5 anos no lugar do de hoje, os mesmos três casos dariam 8,0%, 6,9% e 7,4% na Vivo e 7,4%, 6,1% e 6,8% na TIM. Com os fluxos do próprio modelo no lugar do consenso, o g que iguala o valor do desconto de dividendos ao valor de mercado é de 6,6% na Vivo e 2,4% na TIM, com Ke de 14,40%. Leitura. Pelo consenso as duas estão no preço ou caras: com payout de 100%, o caso mais coerente com um P/E de 12 meses, o preço embute quase o g dos modelos; com 85%, embute mais. A TIM só aparece barata com os fluxos do modelo, cujo lucro fica de 13% a 22% acima do das casas de 2027E em diante: os 13% de potencial da TIM dependem desse lucro, não do múltiplo. Na Vivo as duas contas coincidem, e o preço pede perto de 1 p.p. a mais de crescimento que o modelo. Limites. A fórmula de um estágio supõe lucro crescendo a g desde já, e os modelos têm lucro crescendo de 13% a 19% ao ano em 2027E e 2028E. O payout de 85% é o do fim dos modelos; nos próximos 12 meses ele é de 100% ou mais. E a série histórica de g com o Ke de hoje não é comparável no tempo: o que mudou em 5 anos foi o juro. A medida que não depende do Ke é a distância entre Ke e g, o payout dividido pelo P/E: com payout de 85%, 7,6 p.p. na Vivo e 8,1 p.p. na TIM hoje, contra 6,4 p.p. e 7,0 p.p. com o P/E médio de 5 anos. Barato contra a própria história não é barato contra o juro de hoje.</aside>
+<h2 class="titulo">P/E perto do piso de 5 anos (Vivo 11,2x, TIM 10,5x); o preço embute g de 5% a 7% pela fórmula e, pelos dividendos, 6% a 7% na Vivo e 2% a 3% na TIM</h2>
+<img class="graf" src="img/v16_pe_hist.png" alt="À esquerda, dois gráficos na mesma escala com o P/E projetado de 12 meses de Vivo e de TIM, diário, de novembro de 2021 a novembro de 2026, com a média de 5 anos, a faixa de um desvio padrão, o máximo, o mínimo e a data da eleição. À direita, barras do crescimento na perpetuidade que o preço de hoje embute, para Vivo e TIM, em cinco casos: pela fórmula, com payout de 85% e Ke de 14,40%, payout de 100% e Ke de 14,40% e payout de 85% e Ke de 13,85%; pelo fluxo, com os dividendos do modelo e com os dividendos médios das casas; duas linhas marcam o g dos modelos">
+<p class="fonte">Fonte: Bloomberg (P/E projetado de 12 meses pelo consenso, diário, de 25/11/2021 a 25/11/2026) e modelos de 25/11/2026. Fórmula: g igual a Ke menos payout ÷ P/E. Fluxo: o g que iguala o valor dos dividendos descontados a Ke ao valor de mercado, com os dividendos do modelo ou a média das casas até 2030E.</p>
+<aside>A série. P/E projetado de 12 meses pelo consenso da Bloomberg. Vivo: 11,2 vezes em 25/11/2026, no percentil 8 da série de 5 anos; média de 13,3 vezes, faixa de um desvio padrão de 11,9 a 14,6 vezes, máximo de 16,1 vezes em 06/04/2022 e mínimo de 9,7 vezes em 13/05/2025. TIM: 10,5 vezes, no percentil 15; média de 12,1 vezes, faixa de 10,7 a 13,5 vezes, máximo de 15,1 vezes em 02/05/2023 e mínimo de 8,6 vezes em 10/01/2025. A queda de múltiplo veio antes da eleição: em 2026 as duas chegaram a 15,8 e 14,5 vezes e estavam em 10,9 e 9,2 vezes na véspera da eleição de 25/10/2026; no primeiro pregão depois foram a 10,3 e 8,7 vezes e desde então subiram. A TIM negocia a 0,94 do P/E da Vivo, contra 0,92 na média, e ficou acima da Vivo em 16% dos dias. Ressalva da Vivo: o lucro do consenso inclui o ganho de venda de ativos; sem ele, com ganho estimado de R$ 1,0 a 1,5 bilhão, o P/E de hoje seria de 12,4 a 13,2 vezes, perto da média de 5 anos e não do piso. Base diferente da do slide 24: lá o P/E usa o lucro recorrente do modelo (13,8 vezes na Vivo e 11,0 na TIM). Crescimento embutido pela fórmula de um estágio, P/E igual a payout dividido por Ke menos g: com payout de 85% e Ke de 14,40%, 6,8% ao ano na Vivo e 6,3% na TIM; com payout de 100% e Ke de 14,40%, 5,4% e 4,8%; com payout de 85% e Ke de 13,85%, 6,2% e 5,7%. O g dos modelos é de 5,73% na Vivo e 5,00% na TIM. Com o P/E médio de 5 anos no lugar do de hoje, os mesmos três casos dariam 8,0%, 6,9% e 7,4% na Vivo e 7,4%, 6,1% e 6,8% na TIM. Crescimento embutido pelo fluxo de dividendos, o g que iguala o valor descontado a Ke de 14,40% ao valor de mercado: com os dividendos do modelo, 6,6% na Vivo e 2,4% na TIM; com a distribuição média das casas de 2027E a 2030E e perpetuidade daí em diante, 6,0% e 3,2%. Leitura. Na Vivo os dois métodos coincidem, de 5,4% a 6,8%, e o preço pede até 1 p.p. a mais de crescimento que o modelo. Na TIM os métodos divergem: 4,8% a 6,3% pela fórmula e 2,4% a 3,2% pelo fluxo. A diferença é o payout dos primeiros anos. As casas distribuem na TIM 122% do lucro em 2027E, 117% em 2028E e 107% em 2029E, e a fórmula com payout de 85% a 100% deixa esse caixa de fora. A distribuição das casas na TIM é maior que a do modelo de 2027E a 2030E (R$ 5,7 bilhões contra R$ 4,9 bilhões em 2027E; R$ 6,0 bilhões contra R$ 5,9 bilhões em 2030E), embora o lucro do modelo fique de 2% a 15% acima da média das casas. Por isso o potencial de 13% da TIM não vem do lucro do modelo: vem do g de 5,00% na perpetuidade, contra 3,25% a 4,0% nas casas. Limites. A fórmula de um estágio supõe lucro crescendo a g desde já, e os modelos têm lucro crescendo de 14% a 19% ao ano em 2027E e 2028E. O P/E é de 25/11/2026 e o preço dos modelos é de 24/11/2026. E a série histórica de g com o Ke de hoje não é comparável no tempo: o que mudou em 5 anos foi o juro. A medida que não depende do Ke é a distância entre Ke e g, o payout dividido pelo P/E: com payout de 85%, 7,6 p.p. na Vivo e 8,1 p.p. na TIM hoje, contra 6,4 p.p. e 7,0 p.p. com o P/E médio de 5 anos. Barato contra a própria história não é barato contra o juro de hoje.</aside>
 </section>
 </div>
 <div id="notas"></div>

diff --git a/README.md b/README.md
@@ -1,3 +1,3 @@
 # Telecom Brasil: Vivo e TIM
 
-Deck de telecom (v7.9 · 25/11/2026 14:54): o setor contra a inflação e o PIB, receita, margem, EBITDA, capex e arrendamento, lucro, payout, Fistel e valuation de Vivo e TIM.
+Deck de telecom (v7.10 · 25/11/2026 15:01): o setor contra a inflação e o PIB, receita, margem, EBITDA, capex e arrendamento, lucro, payout, Fistel e valuation de Vivo e TIM.
